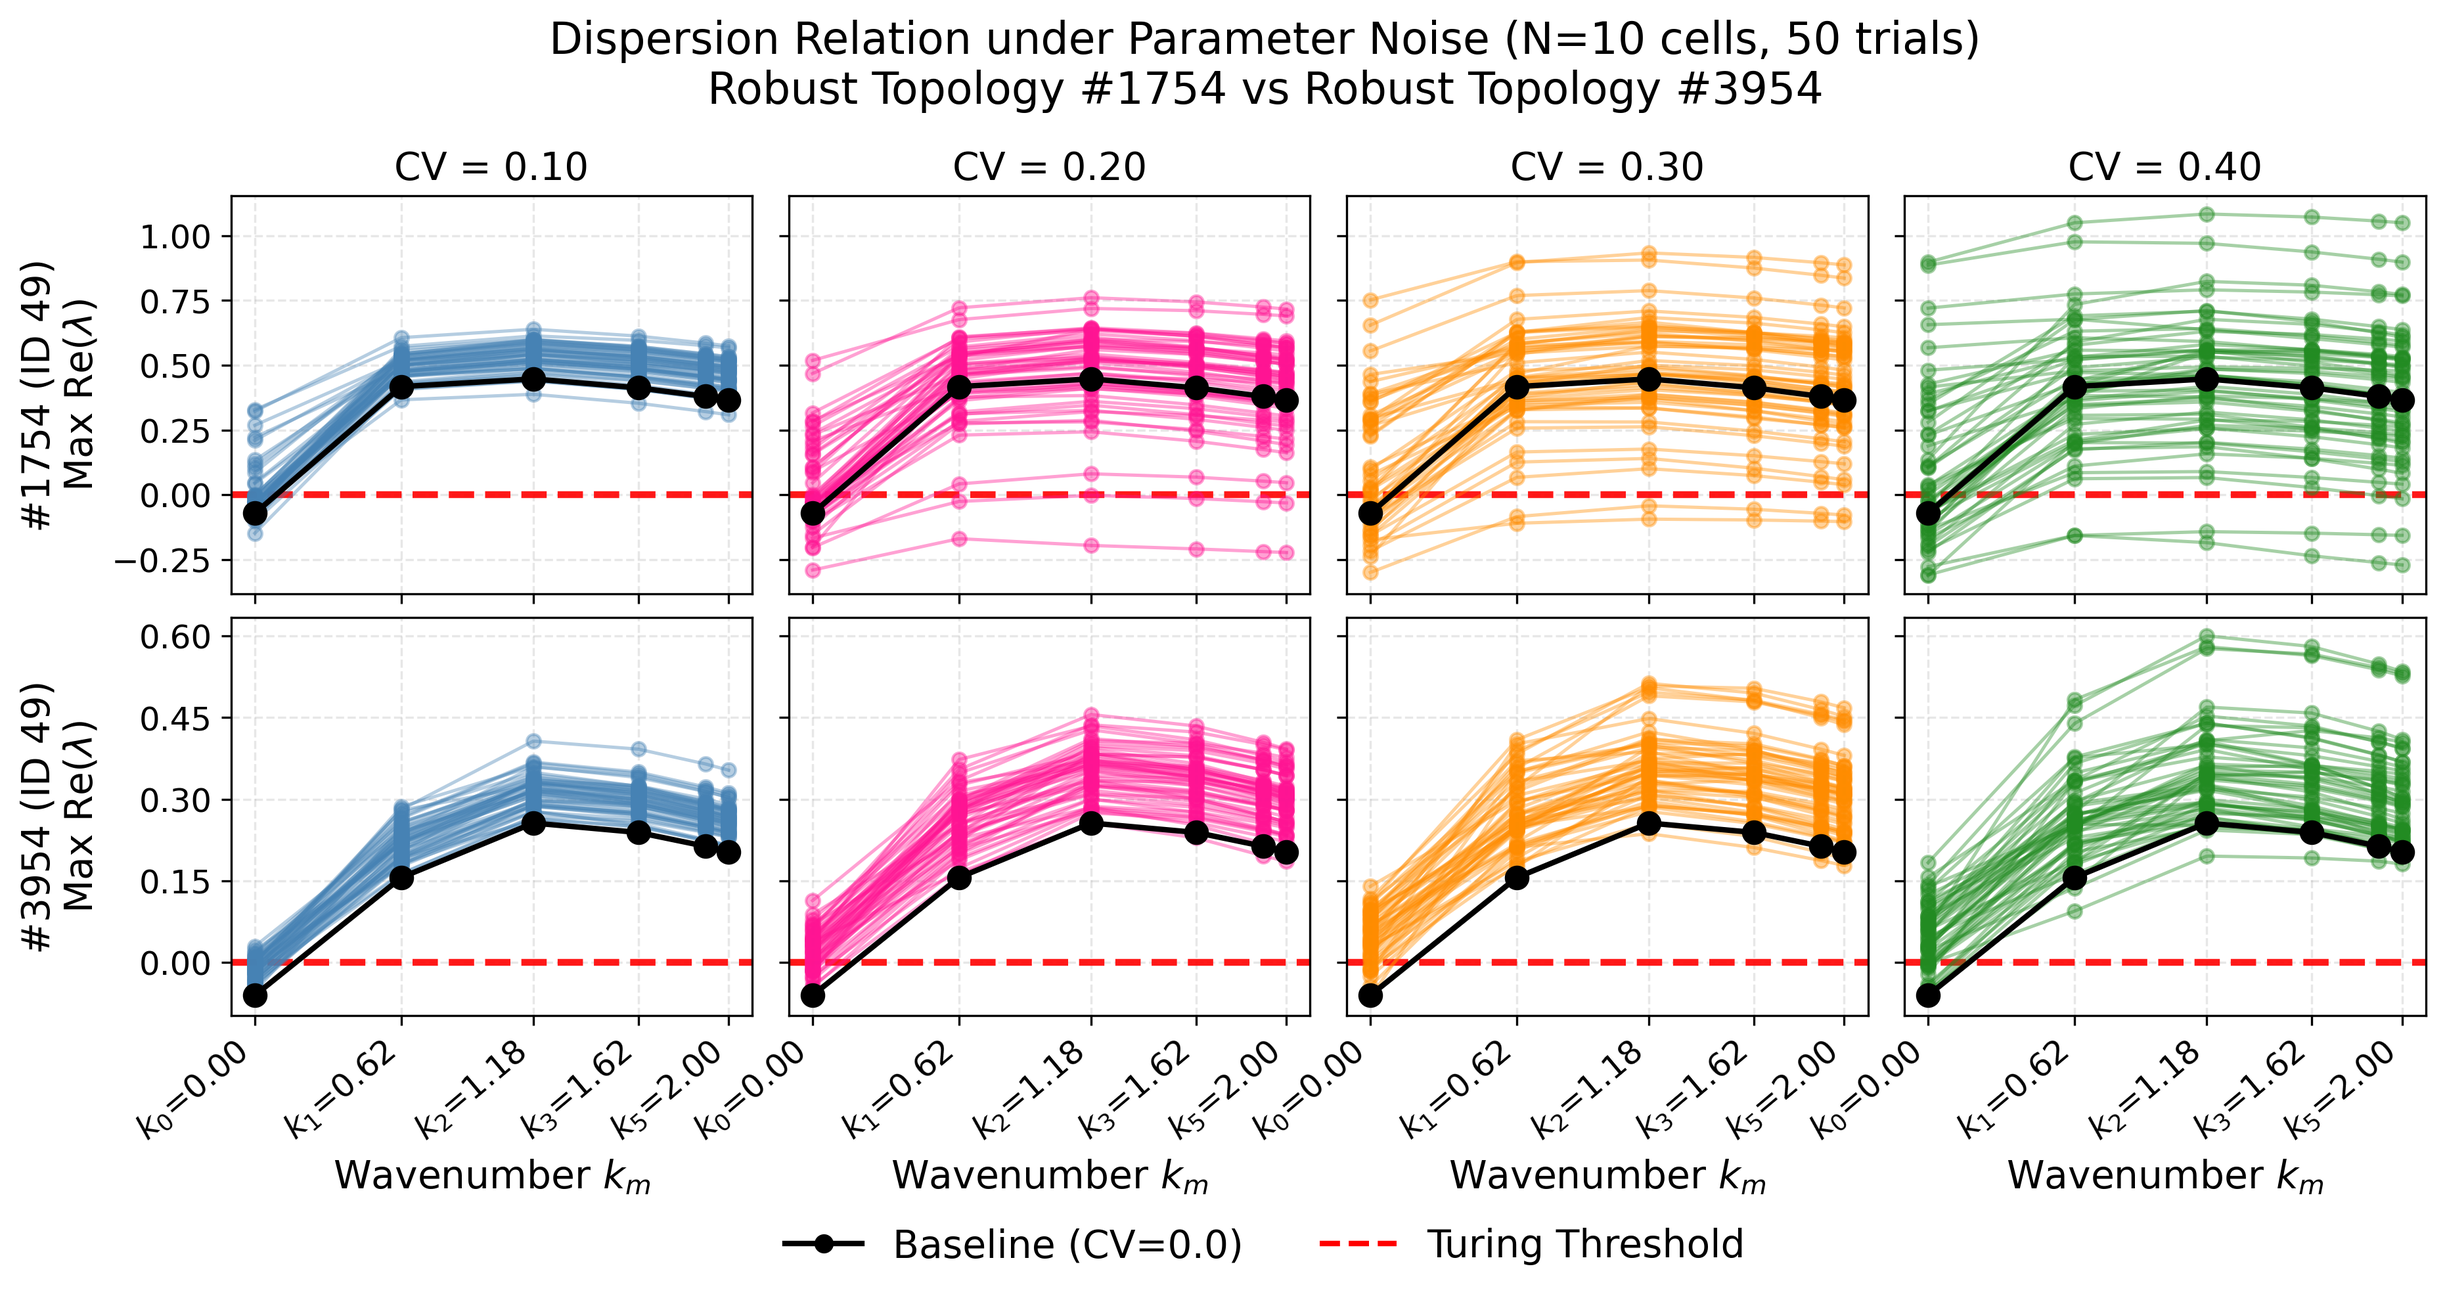
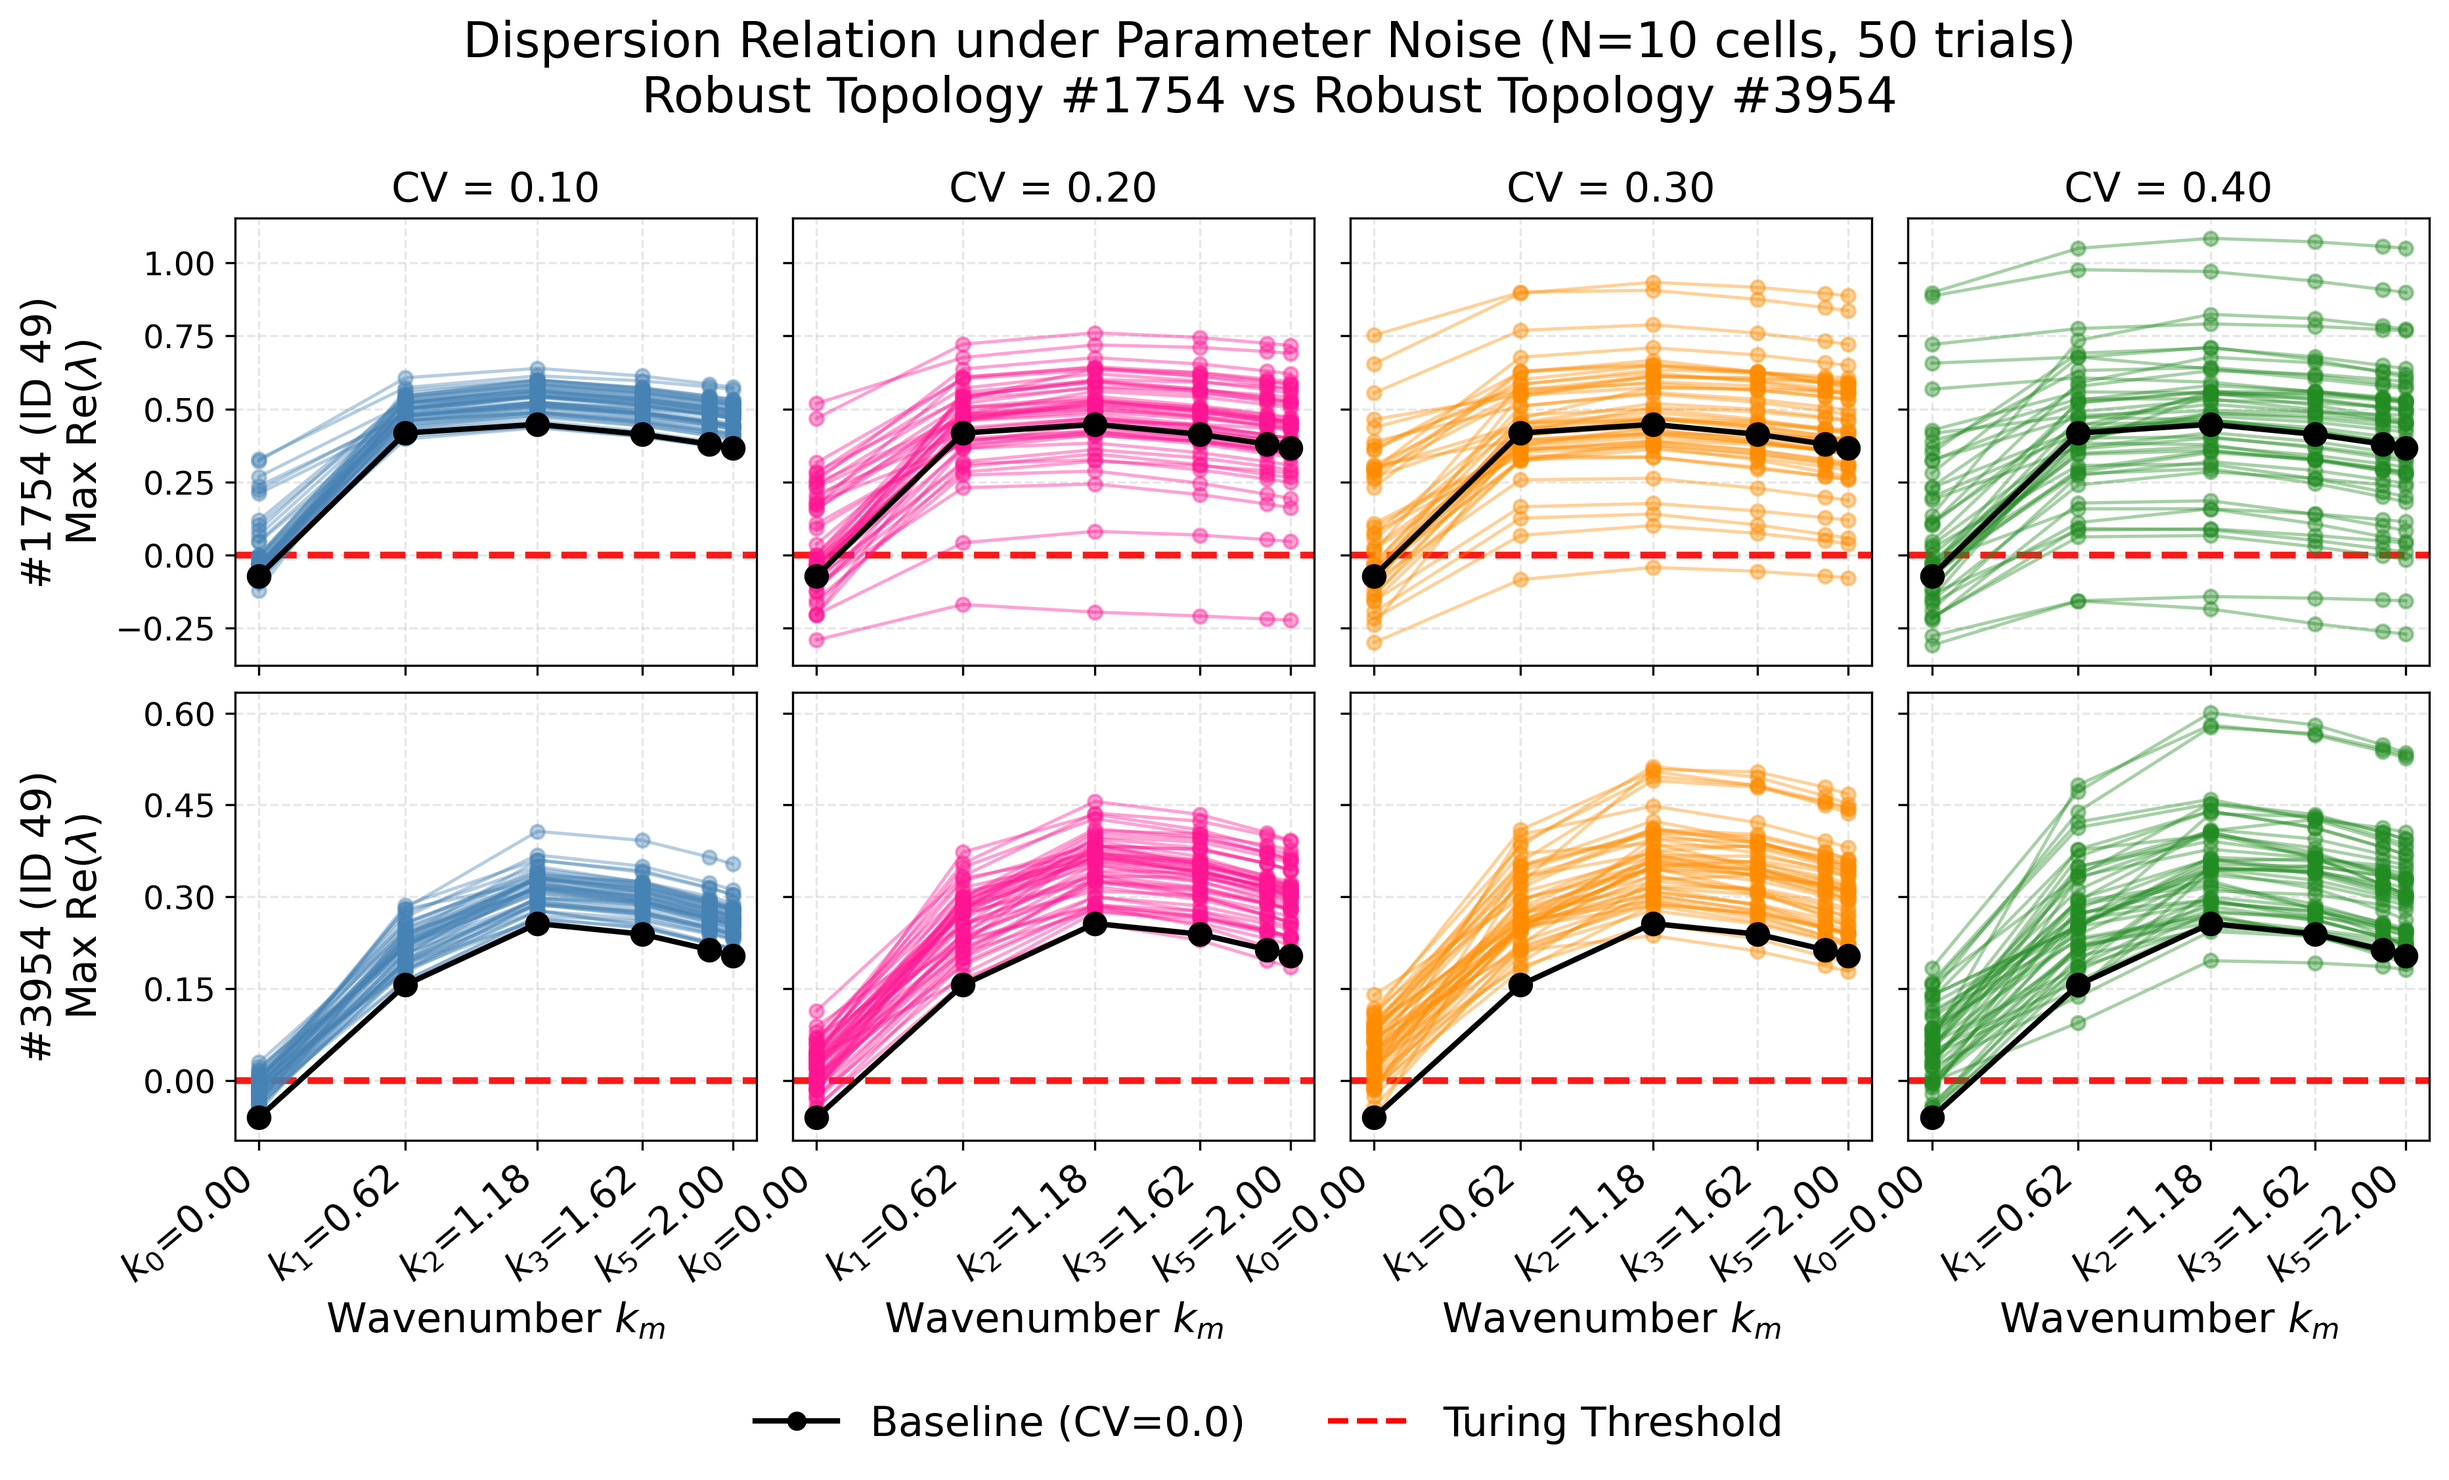
new plots

diff --git a/BiologicalRealism/dispersion_relation.py b/BiologicalRealism/dispersion_relation.py
@@ -116,7 +116,7 @@ def ring_curve(ode, jac, base, D, kgrid, CV, ss0, rng, N):
     return np.max(cells, axis=0)
 
 M_VALUES = np.arange(0, N_RING // 2 + 1) # mode indices m = 0..N/2
-fig, axes = plt.subplots(len(PKLS), len(CVS), figsize=(12.8, 6.4), sharex=True, sharey='row')
+fig, axes = plt.subplots(len(PKLS), len(CVS), figsize=(12.8, 7.2), sharex=True, sharey='row')
 
 for row, (label, pkl) in enumerate(PKLS.items()):
     d = pickle.load(open(pkl, 'rb'))
@@ -145,27 +145,27 @@ for row, (label, pkl) in enumerate(PKLS.items()):
         ax.axhline(0, color='red', linestyle='--', linewidth=2.5, alpha=0.9)
         ax.grid(alpha=0.3, linestyle='--')
         if row == 0:
-            ax.set_title(f'CV = {CV:.2f}', fontsize=14)
+            ax.set_title(f'CV = {CV:.2f}', fontsize=15)
         if row == len(PKLS) - 1:
             # thin out near-duplicate high-k modes so labels don't collide
             keep = [i for i in range(len(kd)) if i != len(kd) - 2]
             ax.set_xticks(kd[keep])
-            ax.set_xticklabels([f'$k_{{{M_VALUES[i]}}}$={kd[i]:.2f}' for i in keep], rotation=40, ha='right', fontsize=12)
-            ax.set_xlabel('Wavenumber $k_m$', fontsize=14)
+            ax.set_xticklabels([f'$k_{{{M_VALUES[i]}}}$={kd[i]:.2f}' for i in keep], rotation=40, ha='right', fontsize=14)
+            ax.set_xlabel('Wavenumber $k_m$', fontsize=15)
 
-    axes[row, 0].set_ylabel(f'{label}\n' + r'Max Re($\lambda$)', fontsize=14)
+    axes[row, 0].set_ylabel(f'{label}\n' + r'Max Re($\lambda$)', fontsize=15)
     axes[row, 0].yaxis.set_major_locator(MultipleLocator(0.15 if '3954' in label else 0.25))
     for col in range(axes.shape[1]):
         axes[row, col].tick_params(axis='y', labelsize=12)
 
 fig.align_ylabels(axes[:, 0])
 fig.subplots_adjust(left=0.09, right=0.96, top=0.83, bottom=0.18, wspace=0.07, hspace=0.06)
-fig.suptitle(f'Dispersion Relation under Parameter Noise (N={N_RING} cells, ' f'{RINGS_PANEL} trials)\n' f'Robust Topology #1754 vs Robust Topology #3954', fontsize=16, y=0.97)
+fig.suptitle(f'Dispersion Relation under Parameter Noise (N={N_RING} cells, ' f'{RINGS_PANEL} trials)\n' f'Robust Topology #1754 vs Robust Topology #3954', fontsize=18, y=0.97)
 
 legend_handles = [
     mlines.Line2D([], [], color='black', linewidth=2, marker='o', linestyle='-', label='Baseline (CV=0.0)'),
     mlines.Line2D([], [], color='red', linewidth=2, linestyle='--', label='Turing Threshold'),
 ]
 
-fig.legend(handles=legend_handles, loc='lower center', bbox_to_anchor=(0.5, -0.045), ncol=4, frameon=False, fontsize=14)
+fig.legend(handles=legend_handles, loc='lower center', bbox_to_anchor=(0.5, -0.06), ncol=4, frameon=False, fontsize=15)
 fig.savefig('thesis_dispersion_relation_robust.png', dpi=300, bbox_inches='tight')

diff --git a/BiologicalRealism/plots.py b/BiologicalRealism/plots.py
@@ -86,7 +86,7 @@ def desc(key):
 
 
 # FIG 1: boxplot
-fig, axes = plt.subplots(2, 2, figsize=(12.4, 8.6), sharex=True)
+fig, axes = plt.subplots(2, 2, figsize=(12.4, 8.8), sharex=True)
 line_handle = None
 
 for i, (ax, key) in enumerate(zip(axes.flat, GRID)):
@@ -231,7 +231,7 @@ for k in GRID:
         if d is not None:
             robust_data[(k[0], k[1], N)] = extract(d)
 
-fig, axes = plt.subplots(1, 2, figsize=(12, 5.2), sharey=True)
+fig, axes = plt.subplots(1, 2, figsize=(12, 6), sharey=True)
 for i, (ax, topo) in enumerate(zip(axes, ['1754', '3954'])):
     #ax.axhline(50, color='gray', ls=':', lw=1.1, alpha=0.7, zorder=1)
     for kind in ['robust', 'fragile']:
